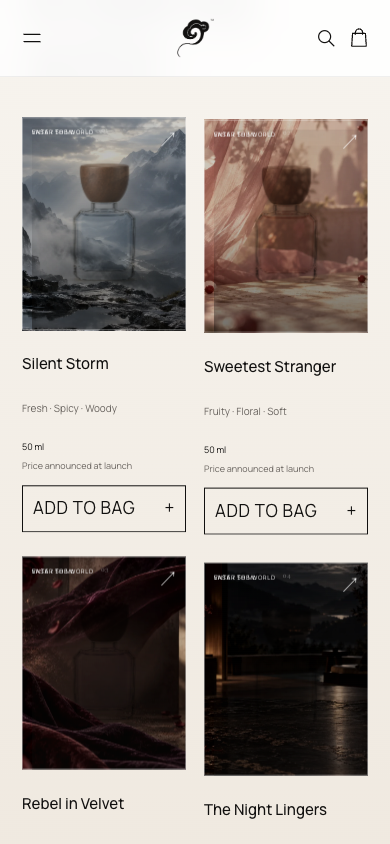
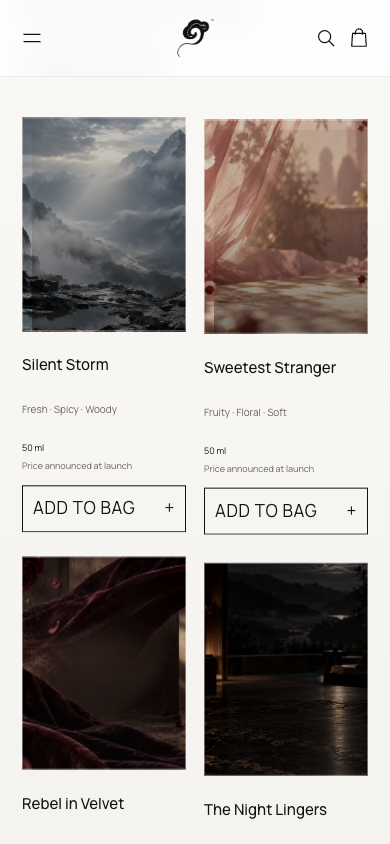
refine(campaign): simplify motion and align brand system

diff --git a/05-campaign/main.js b/05-campaign/main.js
@@ -11,7 +11,7 @@ let opener,activePanel='',toastTimer;
 const escapeText=s=>String(s).replace(/[&<>"']/g,c=>({'&':'&amp;','<':'&lt;','>':'&gt;','"':'&quot;',"'":'&#39;'}[c]));
 const imageMarkup=(p,cls='')=>`<img class="${cls}" src="${photo(p)}" alt="${p.name}, full 50 ml bottle concept" loading="lazy" width="1122" height="1402">`;
 document.querySelector('#year').textContent=new Date().getFullYear();
-document.querySelector('#product-grid').innerHTML=catalog.map((p,i)=>`<article class="product-card" style="--scent:${p.color}"><button class="product-image scent-zone" data-product="${p.id}" aria-label="Discover ${p.name}"><img class="product-world" src="/media/campaign/${p.world}.webp" alt="" loading="lazy" width="1200" height="960"><span class="product-wash"></span>${imageMarkup(p,'product-bottle')}<span class="product-label">VASA / 50 ML</span><span class="product-index">0${i+1}</span><span class="product-world-label">ENTER THE WORLD <b>↗</b></span></button><div class="product-info"><h3><button data-product="${p.id}" style="padding:0;text-align:left">${p.name}</button></h3><p>${p.family}</p><div class="product-meta"><span>50 ml</span><span>Price announced at launch</span></div><button class="add-button" data-add="${p.id}" aria-label="Add ${p.name} to bag"><span>ADD TO BAG</span><span>+</span></button></div></article>`).join('');
+document.querySelector('#product-grid').innerHTML=catalog.map(p=>`<article class="product-card" style="--scent:${p.color}"><button class="product-image" data-product="${p.id}" aria-label="Discover ${p.name}"><img class="product-world" src="/media/campaign/${p.world}.webp" alt="" loading="lazy" width="1200" height="960"><span class="product-wash"></span>${imageMarkup(p,'product-bottle')}</button><div class="product-info"><h3><button data-product="${p.id}" style="padding:0;text-align:left">${p.name}</button></h3><p>${p.family}</p><div class="product-meta"><span>50 ml</span><span>Price announced at launch</span></div><button class="add-button" data-add="${p.id}" aria-label="Add ${p.name} to bag"><span>ADD TO BAG</span><span>+</span></button></div></article>`).join('');
 document.querySelector('#story-slides').innerHTML=catalog.map((p,i)=>`<article class="story-slide" ${i?'hidden inert':''} aria-label="${i+1} of 4: ${p.name}" style="--scent:${p.color}"><div class="story-photo"><span class="story-number">0${i+1} / THE COLLECTION</span>${imageMarkup(p)}</div><div class="story-copy"><p class="kicker">${p.family}</p><h3>${p.name}</h3><p class="story-line">${p.line}</p><p>${p.description}</p><button class="text-link" data-product="${p.id}">DISCOVER THE FRAGRANCE <span>↗</span></button></div></article>`).join('');
 document.querySelector('.story-tabs').innerHTML=catalog.map((p,i)=>`<button class="story-tab" aria-label="Show ${p.name}" aria-pressed="${i===0}" data-slide="${i}"></button>`).join('');
 function showPanel(name,heading,html){
@@ -46,29 +46,30 @@ document.addEventListener('click',e=>{const el=e.target.closest('button,a');if(!
 const slides=[...document.querySelectorAll('.story-slide')],tabs=[...document.querySelectorAll('.story-tab')],stage=document.querySelector('.story-stage');
 const stageColor=hex=>{const value=parseInt(hex.slice(1),16),mix=.2,base=17;const channel=shift=>Math.round(((value>>shift)&255)*mix+base*(1-mix));return `rgb(${channel(16)}, ${channel(8)}, ${channel(0)})`};
 stage.style.backgroundColor=stageColor(catalog[0].color);
-let current=0,busy=false,requested=null,destination=null,playing=false,timer=null,inView=false,hovered=false,focused=false;
-function schedule(){clearTimeout(timer);if(playing&&inView&&!document.hidden&&!panel.open&&!hovered&&!focused)timer=setTimeout(()=>go(current+1),6000)}
-function go(index){index=(index+slides.length)%slides.length;if(busy){requested=index;return;}if(index===current){schedule();return;}busy=true;destination=index;clearTimeout(timer);const from=slides[current],to=slides[index],direction=index>current?1:-1;to.hidden=false;to.inert=true;gsap.set(from,{position:'absolute',inset:0,width:'100%',zIndex:1});gsap.set(to,{position:'relative',zIndex:2});
- const finish=()=>{if(from.contains(document.activeElement))stage.focus({preventScroll:true});from.hidden=true;from.inert=true;to.inert=false;gsap.set([from,to],{clearProps:'position,inset,width,zIndex,clipPath'});current=index;destination=null;busy=false;tabs.forEach((b,n)=>b.setAttribute('aria-pressed',String(n===index)));document.querySelector('#story-counter').textContent=`0${index+1} / 04`;document.querySelector('#story-status').textContent=catalog[index].name;if(requested!==null){const next=requested;requested=null;go(next)}else schedule();};
+let current=0,busy=false,requested=null,destination=null,playing=false,timer=null,progressTween=null,inView=false,hovered=false,focused=false;
+function schedule(){clearTimeout(timer);progressTween?.kill();tabs.forEach(tab=>tab.style.setProperty('--fill','0'));if(playing&&inView&&!document.hidden&&!panel.open&&!hovered&&!focused){progressTween=gsap.to(tabs[current],{'--fill':1,duration:6,ease:'none'});timer=setTimeout(()=>go(current+1),6000)}}
+function go(index){index=(index+slides.length)%slides.length;if(busy){requested=index;return;}if(index===current){schedule();return;}busy=true;destination=index;clearTimeout(timer);progressTween?.kill();const from=slides[current],to=slides[index],direction=index>current?1:-1,stack=document.querySelector('#story-slides');stack.style.minHeight=`${from.offsetHeight}px`;to.hidden=false;to.inert=true;gsap.set([from,to],{position:'absolute',inset:0,width:'100%'});gsap.set(from,{zIndex:1});gsap.set(to,{zIndex:2});
+ const finish=()=>{if(from.contains(document.activeElement))stage.focus({preventScroll:true});from.hidden=true;from.inert=true;to.inert=false;gsap.set([from,to],{clearProps:'position,inset,width,zIndex,clipPath,opacity,filter,transform'});stack.style.minHeight='';current=index;destination=null;busy=false;tabs.forEach((b,n)=>b.setAttribute('aria-pressed',String(n===index)));document.querySelector('#story-counter').textContent=`0${index+1} / 04`;document.querySelector('#story-status').textContent=catalog[index].name;if(requested!==null){const next=requested;requested=null;go(next)}else schedule();};
  if(reduced.matches){finish();return;}
- const timeline=gsap.timeline({onComplete:finish});
+ const timeline=gsap.timeline({onComplete:finish,defaults:{overwrite:'auto'}});
  timeline
-  .to(from.querySelectorAll('.story-copy>*'),{x:-direction*18,opacity:0,duration:.26,stagger:.02,ease:'power2.in'},0)
-  .to(from.querySelector('.story-photo img'),{x:-direction*22,scale:.985,opacity:.35,duration:.4,ease:'power2.in'},0)
-  .to(stage,{backgroundColor:stageColor(catalog[index].color),duration:.65,ease:'power2.inOut'},.06)
-  .fromTo(to,{clipPath:`inset(0 ${direction>0?'100%':'0'} 0 ${direction>0?'0':'100%'})`},{clipPath:'inset(0 0% 0 0%)',duration:.9,ease:'power3.inOut'},.14)
-  .fromTo(to.querySelector('.story-photo img'),{x:direction*54,scale:1.025,opacity:.35},{x:0,scale:1,opacity:1,duration:.85,ease:'power3.out',clearProps:'all'},.24)
-  .fromTo(to.querySelectorAll('.story-copy>*'),{y:28,opacity:0},{y:0,opacity:1,duration:.55,stagger:.055,ease:'power3.out',clearProps:'all'},.47);
+  .to(from,{scale:.994,opacity:0,duration:.48,ease:'power2.inOut'},0)
+  .to(from.querySelector('.story-copy'),{opacity:0,duration:.28,ease:'power2.out'},0)
+  .to(from.querySelector('.story-photo img'),{x:-direction*24,scale:1.025,duration:.58,ease:'power2.inOut'},0)
+  .to(stage,{backgroundColor:stageColor(catalog[index].color),duration:.78,ease:'sine.inOut'},0)
+  .fromTo(to,{scale:1.012,opacity:0},{scale:1,opacity:1,duration:.76,ease:'power3.inOut'},.03)
+  .fromTo(to.querySelector('.story-photo img'),{x:direction*34,scale:1.04},{x:0,scale:1,duration:.82,ease:'power3.out',clearProps:'all'},.05)
+  .fromTo(to.querySelectorAll('.story-copy>*'),{y:20,opacity:0},{y:0,opacity:1,duration:.52,stagger:.04,ease:'power3.out',clearProps:'all'},.1);
 }
 tabs.forEach((b,i)=>b.onclick=()=>go(i));document.querySelector('#story-next').onclick=()=>go((requested??destination??current)+1);document.querySelector('#story-prev').onclick=()=>go((requested??destination??current)-1);
 stage.addEventListener('keydown',e=>{if(e.key==='ArrowRight'||e.key==='ArrowLeft'){e.preventDefault();go((requested??destination??current)+(e.key==='ArrowRight'?1:-1))}});
 let touchX;stage.addEventListener('pointerdown',e=>{if(e.pointerType==='touch')touchX=e.clientX});stage.addEventListener('pointerup',e=>{if(touchX!==undefined&&Math.abs(e.clientX-touchX)>45)go(current+(e.clientX<touchX?1:-1));touchX=undefined});stage.addEventListener('pointercancel',()=>{touchX=undefined});
 function setPlaying(value){playing=value;const b=document.querySelector('#story-pause');b.textContent=value?'Ⅱ':'▷';b.setAttribute('aria-label',value?'Pause fragrance slideshow':'Play fragrance slideshow');schedule()}
-document.querySelector('#story-pause').onclick=()=>setPlaying(!playing);stage.addEventListener('mouseenter',()=>{hovered=true;clearTimeout(timer)});stage.addEventListener('mouseleave',()=>{hovered=false;schedule()});stage.addEventListener('focusin',()=>{focused=true;clearTimeout(timer)});stage.addEventListener('focusout',()=>{setTimeout(()=>{focused=stage.contains(document.activeElement);schedule()},0)});
+document.querySelector('#story-pause').onclick=()=>setPlaying(!playing);stage.addEventListener('mouseenter',()=>{hovered=true;clearTimeout(timer);progressTween?.pause()});stage.addEventListener('mouseleave',()=>{hovered=false;schedule()});stage.addEventListener('focusin',()=>{focused=true;clearTimeout(timer);progressTween?.pause()});stage.addEventListener('focusout',()=>{setTimeout(()=>{focused=stage.contains(document.activeElement);schedule()},0)});
 new IntersectionObserver(entries=>{inView=entries[0].isIntersecting;schedule()},{threshold:.3}).observe(stage);document.addEventListener('visibilitychange',schedule);if(!reduced.matches)setPlaying(true);
 ScrollTrigger.create({start:20,onUpdate:self=>document.querySelector('.site-header').classList.toggle('scrolled',self.scroll()>20)});
 if(!reduced.matches){document.fonts.ready.then(()=>{const split=SplitText.create('#hero-title',{type:'lines',linesClass:'hero-title-line',aria:'auto'});gsap.from(split.lines,{y:42,opacity:0,duration:1.15,stagger:.13,ease:'power3.out',delay:.15});gsap.from('.hero-copy>.kicker,.hero-copy>.button',{opacity:0,y:12,duration:.8,stagger:.12,delay:.3});initExperience();ScrollTrigger.refresh()});}
 const filmSources={desktop:'/media/campaign/vasa-red-memory-hero-desktop.mp4',mobile:null};
-const film=document.querySelector('#brand-film'),filmButton=document.querySelector('#film-control');
+const film=document.querySelector('#brand-film');
 const filmURL=matchMedia('(max-width:760px)').matches?filmSources.mobile:filmSources.desktop;
-if(filmURL){film.src=filmURL;filmButton.hidden=false;film.addEventListener('playing',()=>document.querySelector('.hero').classList.add('has-film'));film.addEventListener('error',()=>{document.querySelector('.hero').classList.remove('has-film');filmButton.hidden=true});filmButton.onclick=()=>{if(film.paused){film.play().catch(()=>{});filmButton.textContent='Pause film Ⅱ';filmButton.setAttribute('aria-label','Pause brand film')}else{film.pause();filmButton.textContent='Play film ▷';filmButton.setAttribute('aria-label','Play brand film')}};if(!reduced.matches)film.play().catch(()=>{});}
+if(filmURL){film.src=filmURL;film.addEventListener('playing',()=>document.querySelector('.hero').classList.add('has-film'));film.addEventListener('error',()=>document.querySelector('.hero').classList.remove('has-film'));if(!reduced.matches)film.play().catch(()=>{});}

diff --git a/index.html b/index.html
@@ -3,12 +3,11 @@
 <a class="skip" href="#main">Skip to content</a>
 <header class="site-header"><nav aria-label="Main navigation"><div class="nav-left"><button class="icon-button mobile-menu" data-panel="menu" aria-label="Open menu"><svg><use href="#i-menu"/></svg></button><a href="#collection">Collection</a><a href="#gifting">Gifting</a></div><a class="brand" href="#" aria-label="VASA Fragrance home"><span class="brand-mark"><img class="mark-dark" src="/media/campaign/mark-dark.png" alt="" width="43" height="50"><img class="mark-gold" src="/media/campaign/mark-gold.png" alt="" width="43" height="50" aria-hidden="true"></span><span class="brand-name" aria-hidden="true"><strong>VASA</strong><small>FRAGRANCE</small></span><span class="brand-stroke" aria-hidden="true"></span></a><div class="nav-right"><a href="#art-story">Art Story</a><button class="text-button contact-nav" data-panel="contact">Contact</button><button class="icon-button" data-panel="search" aria-label="Search fragrances"><svg><use href="#i-search"/></svg></button><button class="icon-button bag-button" data-panel="bag" aria-label="Shopping bag, 0 items"><svg><use href="#i-bag"/></svg><span id="bag-count" hidden>0</span></button><button class="icon-button profile-button" data-panel="profile" aria-label="Your profile"><svg><use href="#i-user"/></svg></button></div></nav></header>
 <main id="main">
-<section class="hero" aria-labelledby="hero-title"><div class="hero-media"><video id="brand-film" poster="/media/campaign/vasa-red-memory-hero-poster.webp" muted loop playsinline preload="none" aria-label="VASA Himalayan fragrance campaign"></video><img class="hero-poster hero-poster-desktop" src="/media/campaign/vasa-red-memory-hero-poster.webp" alt="" width="854" height="480" fetchpriority="high"><img class="hero-poster hero-poster-mobile" src="/media/campaign/vasa-red-memory-mobile-poster-v2.webp" alt="" width="854" height="480" fetchpriority="high"></div><div class="hero-copy"><p class="kicker">THE ART OF VASA</p><h1 id="hero-title">Fragrance that<br>resides in you.</h1><p>Made with intention. <br>Remembered in your own way.</p><a class="button light" href="#collection">EXPLORE THE COLLECTION <svg><use href="#i-arrow"/></svg></a></div><div class="hero-foot"><span>SCENT. PRESENCE. MEMORY.</span><button id="film-control" hidden aria-label="Pause brand film">Pause film <span>Ⅱ</span></button><a href="#fragrance-stories" aria-label="Discover our fragrances">DISCOVER <span>↓</span></a></div></section>
-<div class="scent-rail" aria-hidden="true"><div class="scent-rail-track"><span>SCENT BECOMES MEMORY</span><i></i><span>CONCENTRATION</span><i></i><span>PRESENCE</span><i></i><span>LONGEVITY</span><i></i><span>SCENT BECOMES MEMORY</span><i></i><span>CONCENTRATION</span><i></i><span>PRESENCE</span><i></i><span>LONGEVITY</span><i></i></div></div>
+<section class="hero" aria-labelledby="hero-title"><div class="hero-media"><video id="brand-film" poster="/media/campaign/vasa-red-memory-hero-poster.webp" muted loop playsinline preload="none" aria-label="VASA Himalayan fragrance campaign"></video><img class="hero-poster hero-poster-desktop" src="/media/campaign/vasa-red-memory-hero-poster.webp" alt="" width="854" height="480" fetchpriority="high"><img class="hero-poster hero-poster-mobile" src="/media/campaign/vasa-red-memory-mobile-poster-v2.webp" alt="" width="854" height="480" fetchpriority="high"></div><div class="hero-copy"><p class="kicker">THE ART OF VASA</p><h1 id="hero-title"><span>Fragrance that</span><br><em>resides in you.</em></h1><p>Made with intention. <br>Remembered in your own way.</p><a class="button light" href="#collection">EXPLORE THE COLLECTION <svg><use href="#i-arrow"/></svg></a></div><div class="hero-foot"><span>SCENT. PRESENCE. MEMORY.</span></div></section>
 <section class="stories section" id="fragrance-stories" aria-labelledby="stories-title"><div class="section-head"><div><p class="kicker">FOUR FRAGRANCES. FOUR FEELINGS.</p><h2 class="motion-heading" id="stories-title">Find what feels like you.</h2></div><a class="text-link" href="#collection">SHOP THE COLLECTION <span>↗</span></a></div><div class="story-stage scent-zone" role="region" aria-roledescription="carousel" aria-label="Fragrance stories" tabindex="0"><div id="story-slides"></div><div class="story-navigation"><div class="story-tabs" role="group" aria-label="Choose a fragrance"></div><div class="story-arrows"><button class="icon-button" id="story-prev" aria-label="Previous fragrance">←</button><span id="story-counter" aria-hidden="true">01 / 04</span><button class="icon-button" id="story-next" aria-label="Next fragrance">→</button><button class="icon-button" id="story-pause" aria-label="Play fragrance slideshow">▷</button></div></div></div><p class="sr-only" id="story-status" aria-live="polite"></p></section>
 <section class="shop section" id="collection" aria-labelledby="collection-title"><div class="section-head"><div><p class="kicker">THE VASA COLLECTION</p><h2 class="motion-heading" id="collection-title">Your scent. Your signature.</h2></div><span class="collection-count">04 FRAGRANCES / 50 ML</span></div><div class="product-grid" id="product-grid"></div></section>
 <section class="campaign" id="art-story" aria-labelledby="campaign-title"><div class="campaign-photo scent-zone"><img src="/media/campaign/portrait-red-himalayan-v2.webp" alt="An original VASA campaign model holding the ruby fragrance at her pulse point" width="1672" height="941" loading="lazy"></div><div class="campaign-copy"><p class="kicker">MORE THAN SOMETHING YOU WEAR</p><h2 class="motion-heading" id="campaign-title">A little of you.<br>Long after you leave.</h2><p>Vāsa means dwelling, presence and fragrance. To us, scent is personal: a familiar place, an unexpected encounter, a memory that stays.</p><p>Our family's roots in the perfume business shape how we think about every composition. Its concentration. Its presence. The way it unfolds with time.</p><button class="text-link" data-panel="story">THE ART OF VASA <span>↗</span></button></div></section>
-<section class="craft-strip" aria-label="Our approach to fragrance"><div><span>01</span><h3>Concentration</h3><p>The composition at the heart of every scent.</p></div><div><span>02</span><h3>Presence</h3><p>A fragrance's strength and individual character.</p></div><div><span>03</span><h3>Longevity</h3><p>The opening, the evolution, the memory.</p></div></section>
-<section class="gifting section" id="gifting"><div class="gift-art" aria-hidden="true"><div class="gift-orbit"></div><img src="/media/campaign/logo-gold.svg" alt=""><span>FRAGRANCE THAT RESIDES IN YOU</span></div><div class="gift-copy"><p class="kicker">THE GIFT OF SOMETHING PERSONAL</p><h2 class="motion-heading">For someone<br>you know by heart.</h2><p>A fresh beginning. A warm embrace. A night to remember. Find their fragrance among four distinct expressions.</p><a href="#collection" class="button dark">FIND THEIR FRAGRANCE <svg><use href="#i-arrow"/></svg></a><button class="text-link exclusive-link" data-panel="exclusive">ONLINE EXCLUSIVES <span>↗</span></button></div></section>
+<section class="craft-strip" aria-labelledby="craft-title"><header class="craft-intro"><p class="kicker">THE VASA STANDARD</p><h2 id="craft-title">Made to be felt.<br>Built to remain.</h2></header><div class="craft-principles"><div><span>01</span><h3>Concentration</h3><p>The composition at the heart of every scent.</p></div><div><span>02</span><h3>Presence</h3><p>A fragrance's strength and individual character.</p></div><div><span>03</span><h3>Longevity</h3><p>The opening, the evolution, the memory.</p></div></div></section>
+<section class="gifting section" id="gifting"><div class="gift-art" aria-hidden="true"><div class="gift-orbit"></div><img src="/media/campaign/logo-gold.svg" alt=""><span>FRAGRANCE THAT RESIDES IN YOU</span></div><div class="gift-copy"><p class="kicker">THE GIFT OF SOMETHING PERSONAL</p><h2 class="motion-heading">For someone<br>you know by heart.</h2><p>A fresh beginning. A warm embrace. A night to remember. Find their fragrance among four distinct expressions.</p><div class="gift-actions"><a href="#collection" class="button dark">FIND THEIR FRAGRANCE <svg><use href="#i-arrow"/></svg></a><button class="text-link exclusive-link" data-panel="exclusive">ONLINE EXCLUSIVES <span>↗</span></button></div></div></section>
 </main><footer id="contact"><div class="footer-main"><a href="#" class="footer-logo" aria-label="VASA home"><img src="/media/campaign/logo-light.svg" alt="VASA Fragrance" width="240" height="65"></a><div><h2>Explore</h2><a href="#collection">Collection</a><a href="#gifting">Gifting</a><a href="#art-story">Art Story</a></div><div><h2>At your service</h2><button data-panel="contact">Contact</button><button data-panel="bag">Your bag</button><button data-panel="profile">Your profile</button></div><div class="footer-social"><h2>The world of VASA</h2><p>Fragrance, people and the moments<br>we carry with us.</p><button class="text-link" data-panel="social">VASA SOCIALS <span>↗</span></button></div></div><div class="footer-bottom"><span>© <span id="year">2026</span> VASA FRAGRANCE</span><span>FRAGRANCE THAT RESIDES IN YOU</span><button data-panel="privacy">Privacy</button></div></footer>
-<dialog id="panel" aria-labelledby="panel-title"><div class="panel-header"><h2 id="panel-title"></h2><button class="icon-button" id="close-panel" aria-label="Close panel"><svg><use href="#i-close"/></svg></button></div><div id="panel-content"></div></dialog><div id="scent-cursor" aria-hidden="true"><span>ENTER</span></div><div id="toast" role="status" aria-live="polite"></div><script type="module" src="/05-campaign/main.js"></script></body></html>
+<dialog id="panel" aria-labelledby="panel-title"><div class="panel-header"><h2 id="panel-title"></h2><button class="icon-button" id="close-panel" aria-label="Close panel"><svg><use href="#i-close"/></svg></button></div><div id="panel-content"></div></dialog><div id="toast" role="status" aria-live="polite"></div><script type="module" src="/05-campaign/main.js"></script></body></html>

diff --git a/05-campaign/index.html b/05-campaign/index.html
@@ -3,12 +3,11 @@
 <a class="skip" href="#main">Skip to content</a>
 <header class="site-header"><nav aria-label="Main navigation"><div class="nav-left"><button class="icon-button mobile-menu" data-panel="menu" aria-label="Open menu"><svg><use href="#i-menu"/></svg></button><a href="#collection">Collection</a><a href="#gifting">Gifting</a></div><a class="brand" href="#" aria-label="VASA Fragrance home"><span class="brand-mark"><img class="mark-dark" src="/media/campaign/mark-dark.png" alt="" width="43" height="50"><img class="mark-gold" src="/media/campaign/mark-gold.png" alt="" width="43" height="50" aria-hidden="true"></span><span class="brand-name" aria-hidden="true"><strong>VASA</strong><small>FRAGRANCE</small></span><span class="brand-stroke" aria-hidden="true"></span></a><div class="nav-right"><a href="#art-story">Art Story</a><button class="text-button contact-nav" data-panel="contact">Contact</button><button class="icon-button" data-panel="search" aria-label="Search fragrances"><svg><use href="#i-search"/></svg></button><button class="icon-button bag-button" data-panel="bag" aria-label="Shopping bag, 0 items"><svg><use href="#i-bag"/></svg><span id="bag-count" hidden>0</span></button><button class="icon-button profile-button" data-panel="profile" aria-label="Your profile"><svg><use href="#i-user"/></svg></button></div></nav></header>
 <main id="main">
-<section class="hero" aria-labelledby="hero-title"><div class="hero-media"><video id="brand-film" poster="/media/campaign/vasa-red-memory-hero-poster.webp" muted loop playsinline preload="none" aria-label="VASA Himalayan fragrance campaign"></video><img class="hero-poster hero-poster-desktop" src="/media/campaign/vasa-red-memory-hero-poster.webp" alt="" width="854" height="480" fetchpriority="high"><img class="hero-poster hero-poster-mobile" src="/media/campaign/vasa-red-memory-mobile-poster-v2.webp" alt="" width="854" height="480" fetchpriority="high"></div><div class="hero-copy"><p class="kicker">THE ART OF VASA</p><h1 id="hero-title">Fragrance that<br>resides in you.</h1><p>Made with intention. <br>Remembered in your own way.</p><a class="button light" href="#collection">EXPLORE THE COLLECTION <svg><use href="#i-arrow"/></svg></a></div><div class="hero-foot"><span>SCENT. PRESENCE. MEMORY.</span><button id="film-control" hidden aria-label="Pause brand film">Pause film <span>Ⅱ</span></button><a href="#fragrance-stories" aria-label="Discover our fragrances">DISCOVER <span>↓</span></a></div></section>
-<div class="scent-rail" aria-hidden="true"><div class="scent-rail-track"><span>SCENT BECOMES MEMORY</span><i></i><span>CONCENTRATION</span><i></i><span>PRESENCE</span><i></i><span>LONGEVITY</span><i></i><span>SCENT BECOMES MEMORY</span><i></i><span>CONCENTRATION</span><i></i><span>PRESENCE</span><i></i><span>LONGEVITY</span><i></i></div></div>
+<section class="hero" aria-labelledby="hero-title"><div class="hero-media"><video id="brand-film" poster="/media/campaign/vasa-red-memory-hero-poster.webp" muted loop playsinline preload="none" aria-label="VASA Himalayan fragrance campaign"></video><img class="hero-poster hero-poster-desktop" src="/media/campaign/vasa-red-memory-hero-poster.webp" alt="" width="854" height="480" fetchpriority="high"><img class="hero-poster hero-poster-mobile" src="/media/campaign/vasa-red-memory-mobile-poster-v2.webp" alt="" width="854" height="480" fetchpriority="high"></div><div class="hero-copy"><p class="kicker">THE ART OF VASA</p><h1 id="hero-title"><span>Fragrance that</span><br><em>resides in you.</em></h1><p>Made with intention. <br>Remembered in your own way.</p><a class="button light" href="#collection">EXPLORE THE COLLECTION <svg><use href="#i-arrow"/></svg></a></div><div class="hero-foot"><span>SCENT. PRESENCE. MEMORY.</span></div></section>
 <section class="stories section" id="fragrance-stories" aria-labelledby="stories-title"><div class="section-head"><div><p class="kicker">FOUR FRAGRANCES. FOUR FEELINGS.</p><h2 class="motion-heading" id="stories-title">Find what feels like you.</h2></div><a class="text-link" href="#collection">SHOP THE COLLECTION <span>↗</span></a></div><div class="story-stage scent-zone" role="region" aria-roledescription="carousel" aria-label="Fragrance stories" tabindex="0"><div id="story-slides"></div><div class="story-navigation"><div class="story-tabs" role="group" aria-label="Choose a fragrance"></div><div class="story-arrows"><button class="icon-button" id="story-prev" aria-label="Previous fragrance">←</button><span id="story-counter" aria-hidden="true">01 / 04</span><button class="icon-button" id="story-next" aria-label="Next fragrance">→</button><button class="icon-button" id="story-pause" aria-label="Play fragrance slideshow">▷</button></div></div></div><p class="sr-only" id="story-status" aria-live="polite"></p></section>
 <section class="shop section" id="collection" aria-labelledby="collection-title"><div class="section-head"><div><p class="kicker">THE VASA COLLECTION</p><h2 class="motion-heading" id="collection-title">Your scent. Your signature.</h2></div><span class="collection-count">04 FRAGRANCES / 50 ML</span></div><div class="product-grid" id="product-grid"></div></section>
 <section class="campaign" id="art-story" aria-labelledby="campaign-title"><div class="campaign-photo scent-zone"><img src="/media/campaign/portrait-red-himalayan-v2.webp" alt="An original VASA campaign model holding the ruby fragrance at her pulse point" width="1672" height="941" loading="lazy"></div><div class="campaign-copy"><p class="kicker">MORE THAN SOMETHING YOU WEAR</p><h2 class="motion-heading" id="campaign-title">A little of you.<br>Long after you leave.</h2><p>Vāsa means dwelling, presence and fragrance. To us, scent is personal: a familiar place, an unexpected encounter, a memory that stays.</p><p>Our family's roots in the perfume business shape how we think about every composition. Its concentration. Its presence. The way it unfolds with time.</p><button class="text-link" data-panel="story">THE ART OF VASA <span>↗</span></button></div></section>
-<section class="craft-strip" aria-label="Our approach to fragrance"><div><span>01</span><h3>Concentration</h3><p>The composition at the heart of every scent.</p></div><div><span>02</span><h3>Presence</h3><p>A fragrance's strength and individual character.</p></div><div><span>03</span><h3>Longevity</h3><p>The opening, the evolution, the memory.</p></div></section>
-<section class="gifting section" id="gifting"><div class="gift-art" aria-hidden="true"><div class="gift-orbit"></div><img src="/media/campaign/logo-gold.svg" alt=""><span>FRAGRANCE THAT RESIDES IN YOU</span></div><div class="gift-copy"><p class="kicker">THE GIFT OF SOMETHING PERSONAL</p><h2 class="motion-heading">For someone<br>you know by heart.</h2><p>A fresh beginning. A warm embrace. A night to remember. Find their fragrance among four distinct expressions.</p><a href="#collection" class="button dark">FIND THEIR FRAGRANCE <svg><use href="#i-arrow"/></svg></a><button class="text-link exclusive-link" data-panel="exclusive">ONLINE EXCLUSIVES <span>↗</span></button></div></section>
+<section class="craft-strip" aria-labelledby="craft-title"><header class="craft-intro"><p class="kicker">THE VASA STANDARD</p><h2 id="craft-title">Made to be felt.<br>Built to remain.</h2></header><div class="craft-principles"><div><span>01</span><h3>Concentration</h3><p>The composition at the heart of every scent.</p></div><div><span>02</span><h3>Presence</h3><p>A fragrance's strength and individual character.</p></div><div><span>03</span><h3>Longevity</h3><p>The opening, the evolution, the memory.</p></div></div></section>
+<section class="gifting section" id="gifting"><div class="gift-art" aria-hidden="true"><div class="gift-orbit"></div><img src="/media/campaign/logo-gold.svg" alt=""><span>FRAGRANCE THAT RESIDES IN YOU</span></div><div class="gift-copy"><p class="kicker">THE GIFT OF SOMETHING PERSONAL</p><h2 class="motion-heading">For someone<br>you know by heart.</h2><p>A fresh beginning. A warm embrace. A night to remember. Find their fragrance among four distinct expressions.</p><div class="gift-actions"><a href="#collection" class="button dark">FIND THEIR FRAGRANCE <svg><use href="#i-arrow"/></svg></a><button class="text-link exclusive-link" data-panel="exclusive">ONLINE EXCLUSIVES <span>↗</span></button></div></div></section>
 </main><footer id="contact"><div class="footer-main"><a href="#" class="footer-logo" aria-label="VASA home"><img src="/media/campaign/logo-light.svg" alt="VASA Fragrance" width="240" height="65"></a><div><h2>Explore</h2><a href="#collection">Collection</a><a href="#gifting">Gifting</a><a href="#art-story">Art Story</a></div><div><h2>At your service</h2><button data-panel="contact">Contact</button><button data-panel="bag">Your bag</button><button data-panel="profile">Your profile</button></div><div class="footer-social"><h2>The world of VASA</h2><p>Fragrance, people and the moments<br>we carry with us.</p><button class="text-link" data-panel="social">VASA SOCIALS <span>↗</span></button></div></div><div class="footer-bottom"><span>© <span id="year">2026</span> VASA FRAGRANCE</span><span>FRAGRANCE THAT RESIDES IN YOU</span><button data-panel="privacy">Privacy</button></div></footer>
-<dialog id="panel" aria-labelledby="panel-title"><div class="panel-header"><h2 id="panel-title"></h2><button class="icon-button" id="close-panel" aria-label="Close panel"><svg><use href="#i-close"/></svg></button></div><div id="panel-content"></div></dialog><div id="scent-cursor" aria-hidden="true"><span>ENTER</span></div><div id="toast" role="status" aria-live="polite"></div><script type="module" src="./main.js"></script></body></html>
+<dialog id="panel" aria-labelledby="panel-title"><div class="panel-header"><h2 id="panel-title"></h2><button class="icon-button" id="close-panel" aria-label="Close panel"><svg><use href="#i-close"/></svg></button></div><div id="panel-content"></div></dialog><div id="toast" role="status" aria-live="polite"></div><script type="module" src="./main.js"></script></body></html>

diff --git a/05-campaign/style.css b/05-campaign/style.css
@@ -107,3 +107,61 @@ html,body{max-width:100%;overflow-x:clip}body{background:var(--porcelain)}
 @media(max-width:1100px) and (min-width:761px){.site-header nav{grid-template-columns:1fr 175px 1fr}.brand{width:175px;min-width:175px}.nav-left>a,.nav-right>a,.text-button{font-size:12px}.kicker{font-size:11px}.product-info h3{font-size:17px}.product-info>p{font-size:11px}}
 @media(max-width:760px){.site-header nav{height:76px}.brand{width:118px;min-width:118px;height:55px;min-height:55px}.brand-mark{width:39px;height:48px}.brand .brand-mark img{width:38px;height:46px}.brand-name,.brand-stroke{display:none}.brand:hover .brand-mark,.brand:focus-visible .brand-mark{left:50%;transform:translate(-50%,-50%)}.scent-rail{height:45px}.scent-rail span{font-size:9px}.kicker{font-size:10px}.product-image .product-world{clip-path:inset(0);opacity:1;filter:saturate(.78) contrast(1.05) brightness(.8)}.product-wash{opacity:.64;background:linear-gradient(180deg,rgba(12,10,8,.1),rgba(12,10,8,.06) 42%,rgba(12,10,8,.72))}.product-world-label{opacity:1;transform:none;font-size:7px;bottom:10px;left:10px;right:10px}.product-index{font-size:34px;right:8px}.product-label{font-size:7px;left:10px;top:10px}.product-image .product-bottle{padding:9px;opacity:.76;transform:scale(.88)}.product-info h3{min-height:42px;font-size:15px}.product-info>p{min-height:34px;font-size:10px}.product-meta,.product-meta>span:last-child{font-size:9px}.craft-strip{min-height:0}.craft-strip>div{padding:17px 0 17px 42px}.craft-strip span{left:8px;top:22px}.craft-strip h3{font-size:21px}.craft-strip p{font-size:12px}.gift-orbit{width:90%}#scent-cursor{display:none}}
 @media(prefers-reduced-motion:reduce){.scent-rail-track,.gift-orbit{animation:none}.product-world,.product-bottle,.product-card{transition:none!important}#scent-cursor{display:none}}
+
+/* Brand-kit refinement: ivory, neutral black and antique gold. */
+:root{--ink:#121212;--paper:#fff;--musk:#f4f2ee;--carbon:#121212;--porcelain:#f8f7f4;--antique-gold:#9b7b45;--line:#d9d6d0}
+body{background:#fff}
+
+/* Shared award-style navigation treatment, including the Contact button. */
+.nav-left>a,.nav-right>a,.contact-nav{position:relative;transition:color .35s var(--ease-out),transform .45s var(--ease-out),letter-spacing .45s var(--ease-out)}
+.nav-left>a:after,.nav-right>a:after,.contact-nav:after{content:'';position:absolute;right:0;bottom:3px;left:0;height:1px;background:var(--antique-gold);transform:scaleX(0);transform-origin:right;transition:transform .55s var(--ease-out)}
+.nav-left>a:is(:hover,:focus-visible),.nav-right>a:is(:hover,:focus-visible),.contact-nav:is(:hover,:focus-visible){color:#7e6335;transform:translateY(-2px);letter-spacing:.025em}
+.nav-left>a:is(:hover,:focus-visible):after,.nav-right>a:is(:hover,:focus-visible):after,.contact-nav:is(:hover,:focus-visible):after{transform:scaleX(1);transform-origin:left}
+
+/* A restrained grade lets the campaign film carry colour without losing type. */
+.hero-media:after{content:'';position:absolute;inset:0;z-index:1;pointer-events:none;background:linear-gradient(90deg,rgba(10,8,7,.7) 0%,rgba(10,8,7,.38) 38%,transparent 70%),linear-gradient(180deg,rgba(10,8,7,.04),rgba(8,8,8,.34))}
+.hero-media>img,.hero-media>video{filter:saturate(1.06) contrast(1.04) brightness(.92)}
+.hero-copy,.hero-foot{z-index:2}.hero-copy .kicker{color:#d5b06d;text-shadow:0 1px 16px rgba(0,0,0,.32)}
+.hero h1{color:#f8f1e8;text-shadow:0 3px 24px rgba(0,0,0,.22)}.hero h1 em{color:#e0b679;font-style:normal}
+.hero-copy>p:not(.kicker){color:rgba(248,241,232,.88)}
+.hero-foot{right:auto;color:rgba(248,241,232,.76)}
+
+/* The fragrance story remains one composed frame throughout its transition. */
+#story-slides{position:relative}.story-stage{background:#151515}.story-stage:after{background:linear-gradient(100deg,transparent 42%,rgba(255,255,255,.025) 72%,transparent)}
+.story-navigation{border-color:rgba(255,255,255,.2);background:rgba(18,18,18,.52)}
+.story-tabs{display:flex;flex:1;gap:7px}.story-tab{flex:1;width:auto;height:22px}.story-tab:before{height:1px;background:rgba(255,255,255,.28)}.story-tab[aria-pressed=true]:before{background:rgba(255,255,255,.28)}.story-tab:after{content:'';position:absolute;left:0;right:0;top:50%;height:2px;background:#fff;transform:scaleX(var(--fill,0));transform-origin:left center}
+
+/* Scenery at rest; a clean studio product reveal on interaction. */
+.shop{background:linear-gradient(180deg,#faf9f6 0%,#f3f2ee 100%)}
+.product-image{background:linear-gradient(145deg,color-mix(in srgb,var(--scent) 10%,#f5f3ef),#eeece7)}
+.product-image .product-world{opacity:1;transition:opacity .72s ease,filter .8s ease,transform 1.2s var(--ease-out)}
+.product-wash{transition:opacity .65s ease}
+.product-world-label{font-size:10px;font-weight:600;letter-spacing:.12em}
+.product-image:hover .product-world,.product-image:focus-visible .product-world{opacity:0;filter:saturate(.8) brightness(1)}
+.product-image:hover .product-wash,.product-image:focus-visible .product-wash{opacity:0}
+.product-image:hover .product-world-label,.product-image:focus-visible .product-world-label{opacity:0;transform:translateY(8px)}
+.product-image:hover .product-bottle,.product-image:focus-visible .product-bottle{opacity:1;mix-blend-mode:multiply;transform:translateY(0) scale(.96);filter:drop-shadow(0 30px 28px rgba(0,0,0,.18))}
+
+/* Editorial story and principles use one uninterrupted neutral palette. */
+.campaign{grid-template-columns:minmax(0,1.1fr) minmax(420px,.9fr);margin:0;background:#f4f2ee;min-height:640px}
+.campaign-photo{min-height:640px;background:#efede8}.campaign-photo img{width:100%;height:100%;object-fit:cover;object-position:center}
+.campaign-copy{padding:clamp(64px,7vw,118px)}.campaign-copy h2{font-size:clamp(46px,4.2vw,68px)}.campaign-copy>p:not(.kicker){font-size:15px;max-width:48ch}
+.craft-strip{display:grid;grid-template-columns:minmax(260px,.72fr) minmax(0,1.28fr);gap:clamp(40px,6vw,100px);min-height:0;padding:clamp(72px,8vw,118px) 6vw;background:#fff;color:var(--ink);border-top:1px solid var(--line);border-bottom:1px solid var(--line)}
+.craft-intro .kicker{color:#78684f}.craft-intro h2{font-size:clamp(42px,4.2vw,66px);line-height:1;letter-spacing:-.055em;margin-top:18px}
+.craft-principles{display:grid;grid-template-columns:repeat(3,minmax(0,1fr));align-items:stretch}
+.craft-principles>div{position:relative;padding:12px 26px 18px;border-left:1px solid rgba(18,18,18,.16)}
+.craft-principles span{position:static;display:block;margin-bottom:48px;color:#8a7046;font-size:11px}.craft-principles h3{font-size:23px;margin-bottom:12px}.craft-principles p{font-size:13px;line-height:1.75;color:#625e58;max-width:26ch}
+
+/* Gifting is larger and its actions share an exact left edge. */
+.gifting.section{grid-template-columns:minmax(0,1.08fr) minmax(420px,.92fr);margin:clamp(58px,6vw,92px) 4vw;padding:0;background:#fff}
+.gift-art,.gift-copy{min-height:clamp(500px,42vw,650px)}
+.gift-art{padding:clamp(52px,6vw,92px);border-color:#171717;background:radial-gradient(circle at center,#24211d 0%,#111 68%);outline-color:rgba(155,123,69,.64)}
+.gift-art>img{width:min(82%,410px);max-width:none}.gift-art>span{font-size:9px;color:#c4aa7b}
+.gift-orbit{animation:none;border-color:rgba(155,123,69,.34)}
+.gift-copy{display:flex;flex-direction:column;align-items:flex-start;justify-content:center;padding:clamp(58px,7vw,112px);background:#f5f3ef}
+.gift-copy h2{font-size:clamp(48px,4.5vw,70px);line-height:1.02;margin:22px 0 28px}.gift-copy>p:not(.kicker){font-size:16px;line-height:1.75;max-width:42ch;margin:0}
+.gift-actions{display:grid;justify-items:start;gap:18px;margin-top:36px}.gift-actions>.button,.gift-actions>.exclusive-link{justify-self:start;margin:0;transform:none}.gift-actions>.button{min-width:310px}.exclusive-link{display:inline-flex;width:auto}
+footer{background:#111;color:#f4f2ee}.footer-main h2{font-size:12px}.footer-main>div>a,.footer-main>div>button:not(.text-link),.footer-social>p{font-size:12px}
+
+@media(max-width:900px){.campaign{grid-template-columns:1fr;min-height:0}.campaign-photo{min-height:0;aspect-ratio:16/10}.craft-strip{grid-template-columns:1fr}.craft-principles{grid-template-columns:repeat(3,1fr)}.gifting.section{grid-template-columns:1fr;margin:70px 4vw}.gift-art,.gift-copy{min-height:0}.gift-art{min-height:430px}}
+@media(max-width:760px){.hero-media:after{background:linear-gradient(180deg,transparent 45%,rgba(12,10,8,.65))}.hero-copy{background:#111}.hero h1 em{color:#d6aa69}.hero-foot{display:none}.story-navigation{background:rgba(18,18,18,.58)}.product-image .product-world{opacity:1}.product-image .product-bottle{opacity:0;transform:scale(.82)}.campaign-photo{min-height:0;aspect-ratio:16/10}.campaign-copy{padding:50px 25px 58px}.campaign-copy h2{font-size:40px}.campaign-copy>p:not(.kicker){font-size:14px}.craft-strip{padding:58px 25px;gap:42px}.craft-intro h2{font-size:42px}.craft-principles{grid-template-columns:1fr}.craft-principles>div{padding:22px 0 22px 44px}.craft-principles span{position:absolute;left:8px;top:27px;margin:0}.craft-principles h3{font-size:22px}.craft-principles p{font-size:13px;max-width:none}.gifting.section{margin:58px 22px}.gift-art{min-height:320px;padding:44px}.gift-copy{padding:42px 28px 48px}.gift-copy h2{font-size:42px}.gift-copy>p:not(.kicker){font-size:14px}.gift-actions{width:100%;margin-top:30px}.gift-actions>.button{min-width:0;width:100%}.footer-main>div>a,.footer-main>div>button:not(.text-link),.footer-social>p{font-size:11px}}

diff --git a/05-campaign/experience.js b/05-campaign/experience.js
@@ -30,43 +30,20 @@ function mediaDepth(){
  gsap.to('.hero-media>video,.hero-media>.hero-poster',{scale:1.07,yPercent:3,ease:'none',scrollTrigger:{trigger:'.hero',start:'top top',end:'bottom top',scrub:1}});
  gsap.fromTo('.story-photo img',{scale:.9,yPercent:7},{scale:1.04,yPercent:-4,ease:'none',scrollTrigger:{trigger:'.story-stage',start:'top bottom',end:'bottom top',scrub:1.1}});
  gsap.fromTo('.campaign-photo img',{scale:1.05,yPercent:-4},{scale:1.13,yPercent:4,ease:'none',scrollTrigger:{trigger:'.campaign',start:'top bottom',end:'bottom top',scrub:1.2}});
- gsap.from('.campaign-copy>*',{y:45,duration:1,stagger:.1,ease:'power3.out',scrollTrigger:{trigger:'.campaign-copy',start:'top 80%',once:true}});
- gsap.from('.gift-copy>*',{x:45,duration:1,stagger:.09,ease:'power3.out',scrollTrigger:{trigger:'.gift-copy',start:'top 82%',once:true}});
- gsap.fromTo('.gift-art>img',{xPercent:-24,rotate:-3,opacity:.35},{xPercent:0,rotate:0,opacity:1,ease:'none',scrollTrigger:{trigger:'.gifting',start:'top bottom',end:'center center',scrub:1}});
+ gsap.from('.campaign-copy>*',{y:34,opacity:0,duration:1,stagger:.09,ease:'power3.out',clearProps:'transform,opacity',scrollTrigger:{trigger:'.campaign-copy',start:'top 82%',once:true}});
+ gsap.from('.gift-copy>*',{y:28,opacity:0,duration:.95,stagger:.08,ease:'power3.out',clearProps:'transform,opacity',scrollTrigger:{trigger:'.gift-copy',start:'top 84%',once:true}});
+ gsap.fromTo('.gift-art>img',{scale:.82,rotate:-2,opacity:.2},{scale:1,rotate:0,opacity:1,ease:'none',scrollTrigger:{trigger:'.gifting',start:'top bottom',end:'center center',scrub:1}});
 }
 
 function pinnedPrinciples(){
- const mm=gsap.matchMedia();
- mm.add('(min-width: 901px)',()=>{
-  const items=gsap.utils.toArray('.craft-strip>div');
-  gsap.set(items,{opacity:.62,y:16});
-  const tl=gsap.timeline({scrollTrigger:{trigger:'.craft-strip',start:'center center',end:'+=520',pin:true,scrub:1,anticipatePin:1}});
-  items.forEach((item,index)=>tl.to(item,{opacity:1,y:0,duration:1,ease:'power2.out'},index*.7).to(item,{opacity:index===items.length-1?1:.62,y:index===items.length-1?0:-8,duration:.7,ease:'power2.inOut'},index*.7+.7));
-  return()=>tl.scrollTrigger?.kill();
- });
-}
-
-function pointerLabel(){
- if(!pointerFine.matches)return;
- const cursor=document.querySelector('#scent-cursor');
- const x=gsap.quickTo(cursor,'x',{duration:.28,ease:'power3.out'}),y=gsap.quickTo(cursor,'y',{duration:.28,ease:'power3.out'});
- addEventListener('pointermove',event=>{x(event.clientX);y(event.clientY)});
- document.querySelectorAll('.scent-zone').forEach(zone=>{
-  zone.addEventListener('pointerenter',()=>cursor.classList.add('visible'));
-  zone.addEventListener('pointerleave',()=>cursor.classList.remove('visible'));
- });
-}
-
-function magneticControls(){
- if(!pointerFine.matches)return;
- document.querySelectorAll('.button,.add-button,.story-arrows .icon-button').forEach(control=>{
-  control.addEventListener('pointermove',event=>{const box=control.getBoundingClientRect();gsap.to(control,{x:(event.clientX-box.left-box.width/2)*.12,y:(event.clientY-box.top-box.height/2)*.15,duration:.35,ease:'power3.out'})});
-  control.addEventListener('pointerleave',()=>gsap.to(control,{x:0,y:0,duration:.55,ease:'elastic.out(1,.45)'}));
- });
+ const intro=document.querySelector('.craft-intro');
+ const items=gsap.utils.toArray('.craft-principles>div');
+ gsap.from(intro,{y:28,opacity:0,duration:.9,ease:'power3.out',clearProps:'transform,opacity',scrollTrigger:{trigger:'.craft-strip',start:'top 82%',once:true}});
+ gsap.from(items,{y:38,opacity:0,duration:1,stagger:.12,ease:'power3.out',clearProps:'transform,opacity',scrollTrigger:{trigger:'.craft-principles',start:'top 84%',once:true}});
 }
 
 export function initExperience(){
  if(reduced.matches){gsap.set('.product-card,.motion-heading,.campaign-copy>*,.gift-copy>*',{clearProps:'all'});return;}
- headingReveals();cardEntrances();mediaDepth();pinnedPrinciples();pointerLabel();magneticControls();
+ headingReveals();cardEntrances();mediaDepth();pinnedPrinciples();
  requestAnimationFrame(()=>ScrollTrigger.refresh());
 }
